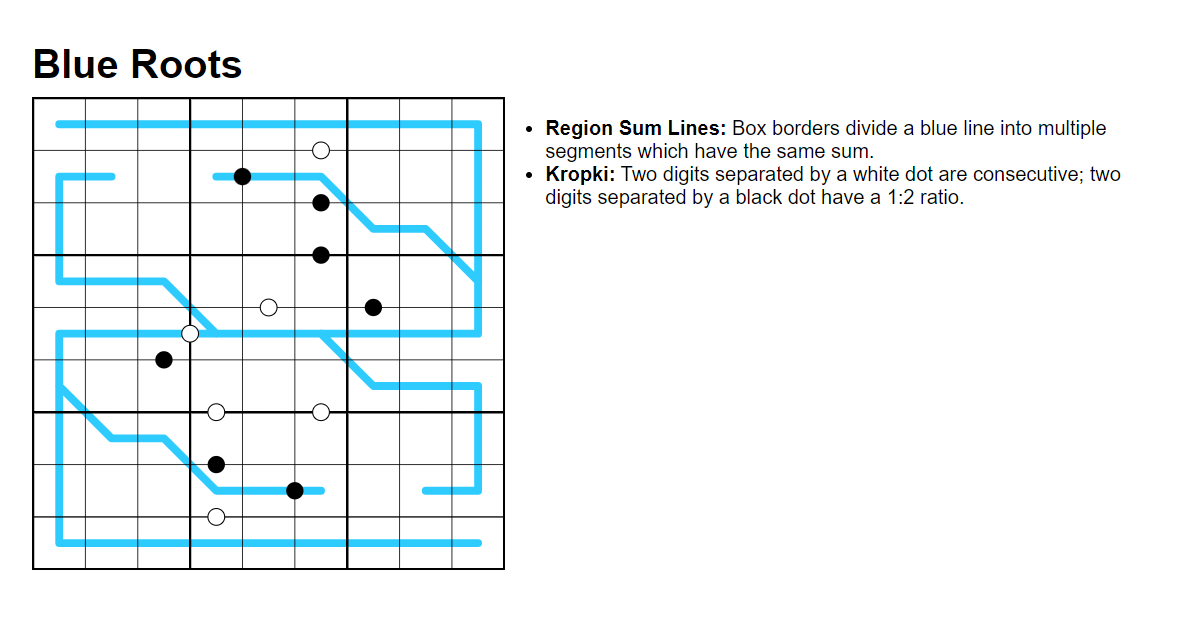
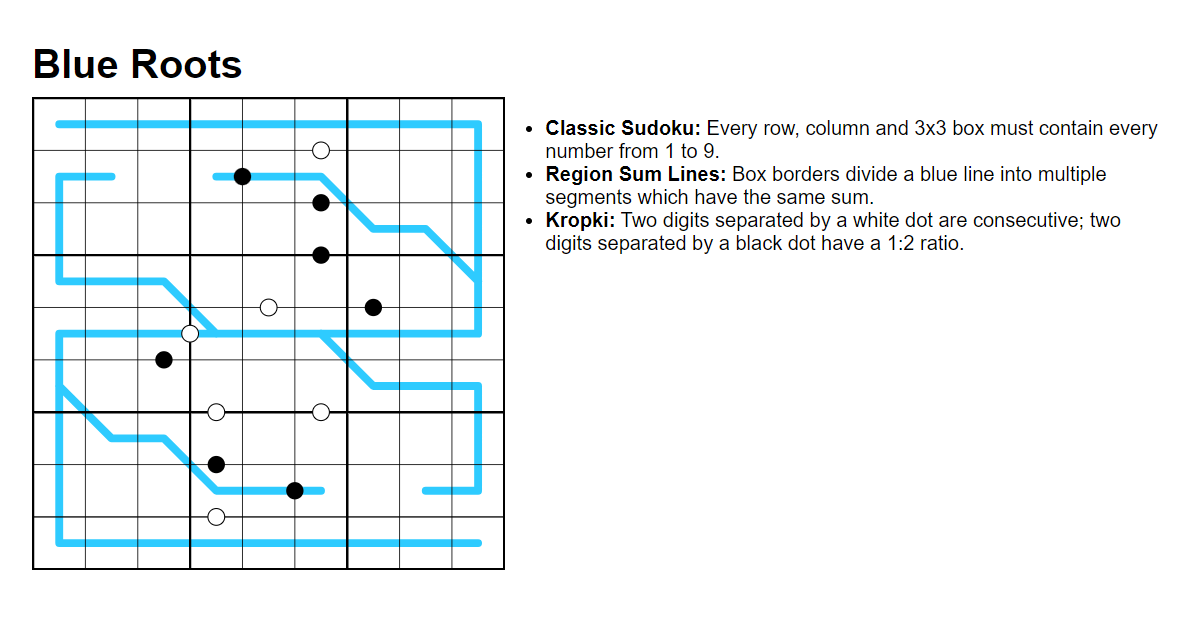
Added new puzzle

Changed region(s): [[0.4317, 0.181, 0.9558, 0.4222]]

diff --git a/_tools/lmd-manager.js b/_tools/lmd-manager.js
@@ -26,7 +26,7 @@ let fetchTimer = Date.now();
 async function sessionFetch(url, options = {}) {
   const headers = {
     ...options.headers,
-    'Cookie': `lm_data=${process.env.LMD_COOKIE_ID}`
+    'Cookie': `lm_data=${process.env.LMD_COOKIE_ID}; lm_lang=en`
   };
 
   await setTimeout(fetchTimer - Date.now());
@@ -225,7 +225,7 @@ async function uploadPuzzle(slug, params = {}, yml = ymlFromSlug(slug)) {
   })(new Date(params.date));
   params.labels.forEach((l) => payload[`label_${l}`] = '1');
   payload.freetags = params.tags.join(', ');
-  payload.comment = params.comment;
+  payload.comment = params.comment ?? '';
   payload.einstellen = createMode ? 'Create' : 'Change';
 
   const $ = await sessionFetchCheerio(url, {

diff --git a/puzzles.html b/puzzles.html
@@ -68,7 +68,7 @@ permalink: /puzzles/
 
 <div id="paginator-top"></div>
 <div id="sort-manager"></div>
-<div id="puzzle-container"></div>
+<div id="puzzle-container" style="margin-top: 1rem;"></div>
 <div id="limit-selector"></div>
 <div id="paginator-bottom"></div>
 

diff --git a/_puzzles/tricolor.md b/_puzzles/tricolor.md
@@ -1,0 +1,34 @@
+---
+title: Tricolor
+creation_date: "2026-11-19"
+order: 54
+sudokupad_url: https://sudokupad.app/pthu959i97
+lmd_id: 000W4G
+rules:
+  - name: Classic Sudoku
+    desc: Every row, column and 3x3 box must contain every number from 1 to 9.
+  - name: German Whispers
+    desc: Every two consecutive digits along a green line must have a difference of at least 5.
+  - name: Parity Lines
+    desc: Every pair of consecutive cells along a red line must contain an odd digit and an even digit.
+  - name: Kropki
+    desc: Two digits separated by a white dot are consecutive; two digits separated by a black dot have a 1:2 ratio.
+rules_de:
+  - name: Klassisches Sudoku
+    desc: Jede Zeile, jede Spalte und jedes 3x3-Block muss alle Zahlen von 1 bis 9 enthalten.
+  - name: German Whisper
+    desc: Die Differenz zwischen zwei benachbarten Ziffern auf einer grünen Linie muss mindestens 5 betragen.
+  - name: Paritätslinien
+    desc: Jedes Paar aufeinanderfolgender Zellen entlang einer roten Linie muss eine ungerade und eine gerade Ziffer enthalten.
+  - name: Kropki
+    desc: Zwei durch einen weißen Punkt getrennte Ziffern sind aufeinanderfolgend; zwei durch einen schwarzen Punkt getrennte Ziffern stehen in einem Verhältnis von 1:2.
+rules_it:
+  - name: Sudoku classico
+    desc: Ogni riga, ogni colonna e ogni riquadro 3x3 deve contenere tutti i numeri da 1 a 9.
+  - name: German Whisper
+    desc: Due cifre consecutive lungo una linea verde devono avere una differenza pari ad almeno 5.
+  - name: Linee di parità
+    desc: Ogni coppia di celle consecutive lungo una linea rossa deve contenere una cifra pari e una cifra dispari.
+  - name: Kropki
+    desc: Due cifre separate da un pallino bianco sono consecutive; due cifre separate da un pallino nero sono in rapporto di 1:2.
+---

diff --git a/_puzzles/blue-roots.md b/_puzzles/blue-roots.md
@@ -2,11 +2,20 @@
 title: Blue Roots
 creation_date: "2026-11-12"
 order: 52
-sudokupad_url: https://sudokupad.app/hd8z0sbm67
+sudokupad_url: https://sudokupad.app/kjrhf0lsef
 lmd_id: 000W0Q
 rules:
+  - name: Classic Sudoku
+    desc: Every row, column and 3x3 box must contain every number from 1 to 9.
   - name: Region Sum Lines
     desc: Box borders divide a blue line into multiple segments which have the same sum.
   - name: Kropki
     desc: Two digits separated by a white dot are consecutive; two digits separated by a black dot have a 1:2 ratio.
+rules_de:
+  - name: Klassisches Sudoku
+    desc: Jede Zeile, jede Spalte und jedes 3x3-Block muss alle Zahlen von 1 bis 9 enthalten.
+  - name: Region Sum Lines
+    desc: Die Grenzen der 3x3-Blöcke unterteilen eine blaue Linie in mehrere Abschnitte, die dieselbe Summe aufweisen. Verschiedene Linien können unterschiedliche Summen haben.
+  - name: Kropki
+    desc: Zwei durch einen weißen Punkt getrennte Ziffern sind aufeinanderfolgend; zwei durch einen schwarzen Punkt getrennte Ziffern stehen in einem Verhältnis von 1:2.
 ---

diff --git a/_puzzles/reactor.md b/_puzzles/reactor.md
@@ -13,4 +13,13 @@ rules:
     desc: Digits along a grey line read the same backwards and forwards.
   - name: XV
     desc: Two digits separated by an X clue sum up to 10; two digits separated by a V clue sum up to 5; two digits separated by an XV clue sum up to 15.
+rules_de:
+  - name: Klassisches Sudoku
+    desc: Jede Zeile, jede Spalte und jedes 3x3-Block muss alle Zahlen von 1 bis 9 enthalten.
+  - name: German Whisper
+    desc: Die Differenz zwischen zwei benachbarten Ziffern auf einer grünen Linie muss mindestens 5 betragen.
+  - name: Palindrom
+    desc: Ziffern entlang einer grauen Linie lesen sich vorwärts und rückwärts gleich.
+  - name: XV
+    desc: Zwei durch ein „X“ getrennte Ziffern ergeben in der Summe 10; zwei durch ein „V“ getrennte Ziffern ergeben in der Summe 5; zwei durch ein „XV“ getrennte Ziffern ergeben in der Summe 15.
 ---

diff --git a/_puzzles/dalmatian-madness.md b/_puzzles/dalmatian-madness.md
@@ -18,4 +18,8 @@ rules_de:
     desc: Jede Zeile, jede Spalte und jedes 3x3-Block muss alle Zahlen von 1 bis 9 enthalten.
   - name: German Whisper
     desc: Die Differenz zwischen zwei benachbarten Ziffern auf einer grünen Linie muss mindestens 5 betragen.
+  - name: Kropki
+    desc: |
+      Zwei durch einen weißen Punkt getrennte Ziffern sind aufeinanderfolgend; zwei durch einen schwarzen Punkt getrennte Ziffern stehen in einem Verhältnis von 1:2; sind zwei Ziffern durch einen schwarz-weißen Punkt getrennt, muss eine ein Vielfaches der anderen sein.  
+      Ein Punkt am Eckpunkt, an dem vier Zellen zusammentreffen, bedeutet, dass die entsprechende Bedingung für beide diagonalen Paare gilt (oben-links/unten-rechts und oben-rechts/unten-links).
 ---
